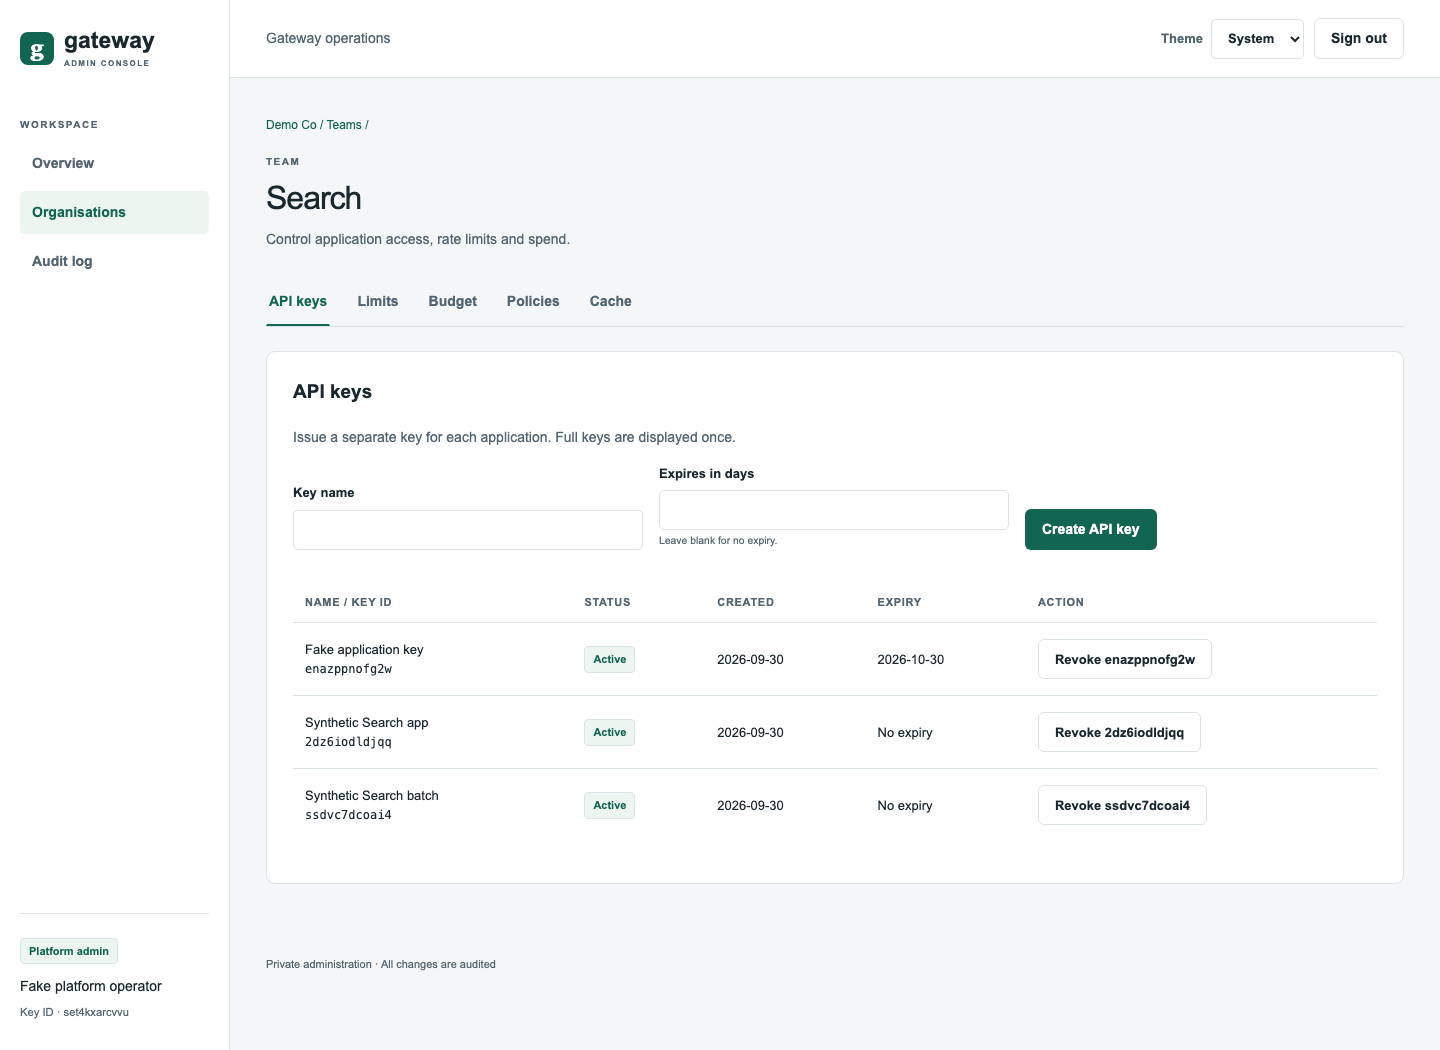
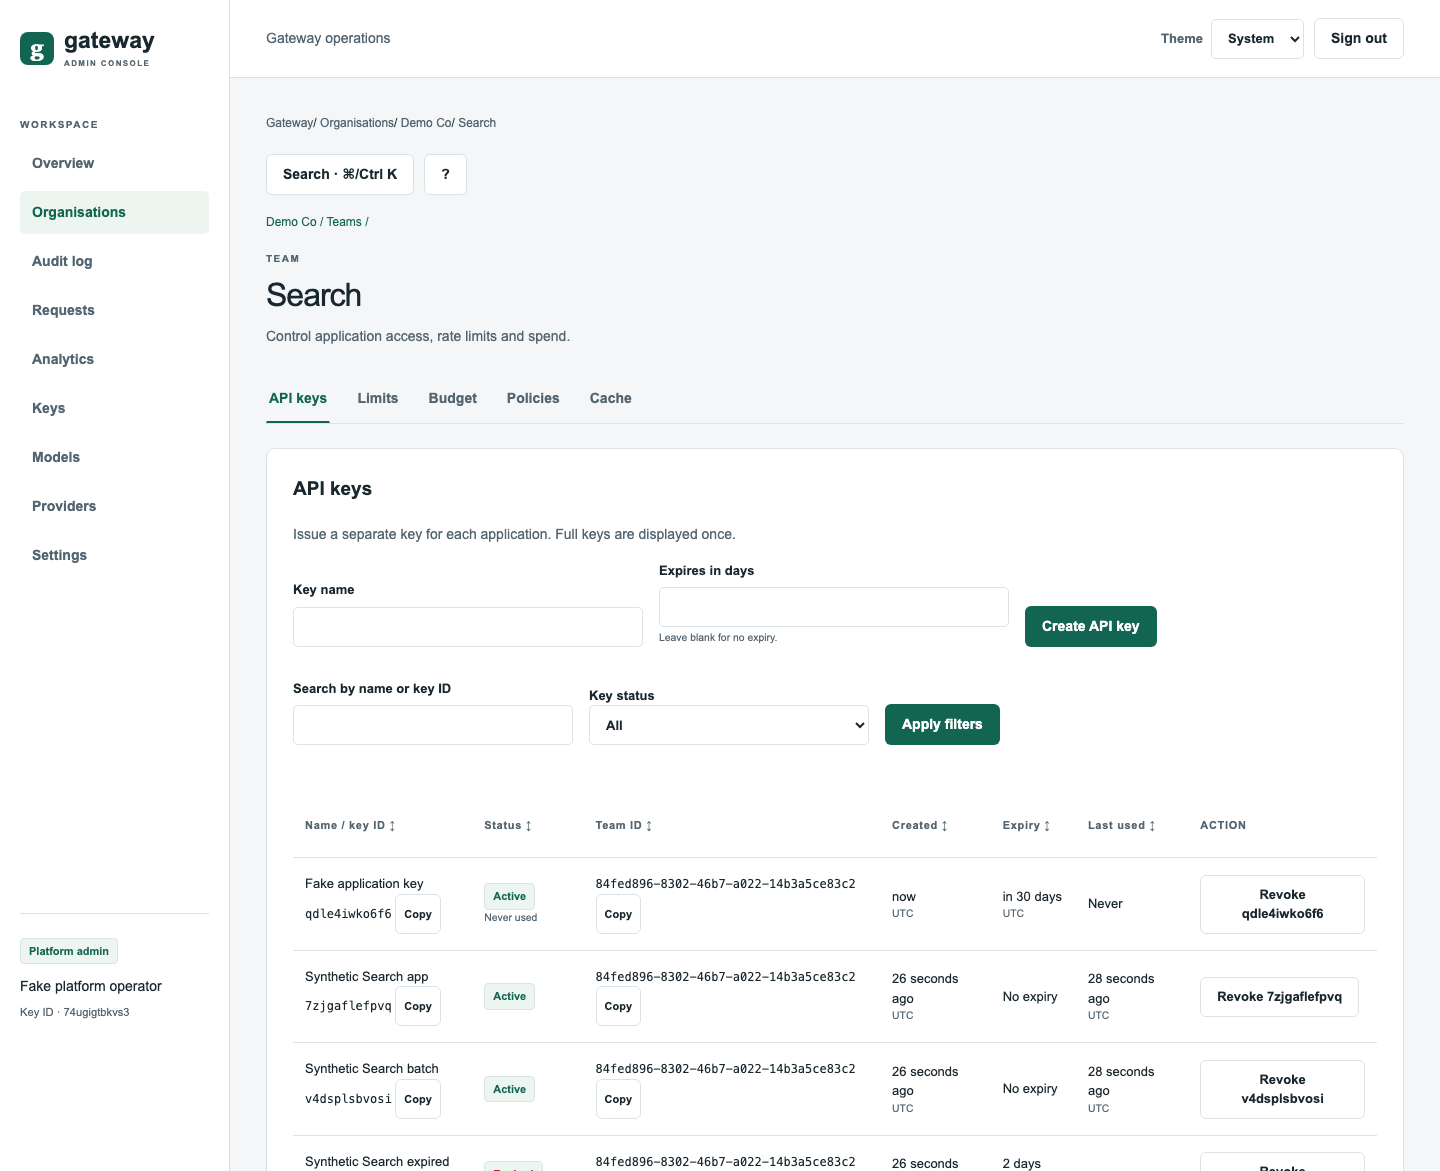
docs(console): refresh complete demo screenshot set

diff --git a/README.md b/README.md
@@ -239,11 +239,12 @@ npm run test:e2e
 CONSOLE_SCREENSHOTS=1 npm run test:e2e
 npm run test:break
 npm run test:break:policies
+npm run test:break:console
 # If a local console already uses 3100:
-CONSOLE_TEST_PORT=3110 npm run test:e2e
+CONSOLE_TEST_PORT=3300 npm run test:e2e
 ```
 
-Playwright uses a disposable `console_e2e_<uuid>` Postgres database and Redis DB 13.
+Playwright uses a disposable `console_e2e_<uuid>` Postgres database and Redis DB 15.
 It starts the real gateway/public/admin listeners (ports 18090/18091) and the production
 standalone console (3100, IPv6 loopback browser origin). It deliberately ignores `.env` and inherited gateway config,
 uses a fake pepper/provider key and a provider URL at closed port 1, and never invokes a
@@ -283,16 +284,62 @@ GATEWAY_API_KEY_PEPPER exported, run:
 GATEWAY_DEMO_SEED=1 uv run python scripts/seed_demo.py
 ```
 
-The command refuses without that flag. It creates Demo Co with Search, Support and
-Engineering, two keys per team, limits/budgets and about 30 days of synthetic usage across
-reviewed models, including unpriced and cache-hit receipts. This illustrative history uses
-today's reviewed prices, not historical invoices. It never calls providers,
-needs no provider key, and prints only org/team IDs and names. Generated key secrets are
-discarded; create a new application key in the console if you need to send a request.
-Rerunning reuses orgs/teams/key names and deterministic receipt IDs, preserving edits and
-existing receipts. It refuses an existing Demo Co that was not created by this seeder.
-It appends a new day's synthetic rows on later days rather than deleting history.
-The Playwright screenshot harness runs this same seeder in its disposable database.
+The command refuses without that flag or when the **actual bound database** host is not
+`localhost`, `127.0.0.1`, `::1` or compose's `postgres`. It creates Demo Co, Northwind
+Health and Orbit Labs, six key states per team, and 90 days of synthetic receipts across
+every catalogued model. Orbit has only three days of history. It makes no provider calls.
+History uses today's reviewed prices; it illustrates operations, not historical invoices.
+Northwind's EU-only policy is applied after its illustrative history: historical non-EU
+receipts do not claim to satisfy the current policy. The reviewed catalogue currently has
+no EU model, so its effective model list correctly permits none.
+
+Rerunning preserves policies and receipts, reuses deterministic receipt IDs, and rotates
+the demo platform and Northwind org-admin keys by revoking the previous pair. The new
+pair is written only to ignored `.demo-keys.env`, mode 0600; keys are never printed.
+Set `GATEWAY_DEMO_KEYS_FILE` to choose another ignored local location. Use those values
+locally for sign-in; never paste them into reports or screenshots. Application key secrets
+are discarded. Pre-existing non-demo names are refused. Audit events use the real service
+and verify as a chain; they are not backdated because the chain service has no timestamp
+injection contract. Later days append synthetic receipts rather than deleting history.
+
+| Screen / state | Seeded example |
+|---|---|
+| Overview: over budget | Demo Co / Search, budget set below seeded spend; danger text says requests are refused |
+| Overview: warning / under / unlimited | Support at alert threshold; Orbit / Prototypes well under; Engineering unlimited |
+| Organisations and near-empty state | Demo Co (general SaaS), Northwind Health (EU healthcare), Orbit Labs (three days) |
+| Organisation Overview / teams | Spend, budget use, key count and last activity for every team |
+| Team Limits | Search overrides, Support defaults, Engineering explicit unlimited limits |
+| Team Budget | Search exhausted, Support warning, Engineering unlimited, Orbit under budget |
+| Org / team API keys | App and batch active; expiring within 3 days; expired; revoked; never used |
+| Org / team Policies | Org provider wildcards, Search exact model plus wildcard, Paused sandbox allow nothing |
+| Guardrail actions / residency | Search/Support/Engineering exercise every action; Northwind strict EU; Engineering sg/global |
+| Org / team Cache | Persisted cache policy and successful purge audit events; synthetic cache-hit receipts and savings |
+| Requests / attempt drawer | Three-attempt Groq 502 → Groq retry 502 → DeepSeek 200; stream, error, incomplete, cache and redaction filters |
+| Analytics | 90 days across every provider/model; visible Groq slow day two days ago; missing TTFB/savings remain gaps |
+| Models / aliases | Installed reviewed catalogue, current prices/history/source dates, weights and authoritative effective team policies |
+| Providers | Synthetic recent error/latency aggregates; enabled/key-configured booleans; actual breaker state labelled this replica |
+| Audit / event drawer | Every real service action, including admin creation/revoke, key revoke, policies and purge; verified chain |
+| Settings: Account / Preferences / Platform | Demo platform and Northwind org sign-in; persisted browser preferences; platform-only allowlist |
+| Search / command palette | All three orgs for platform; Northwind's Clinical/Research and keys only for its org admin |
+| Exports / filters / sort / copy | Request and audit receipts, exact decimal values, safe CSV cells; URL state and public IDs |
+
+Every screen and org/team tab is visited in the named platform and org demo-tour tests.
+Run the suites after the Python database and Redis gates:
+
+```bash
+CONSOLE_TEST_PORT=3300 CONSOLE_SCREENSHOTS=1 npm run test:e2e
+```
+
+The full set is under `docs/images/console/{platform,org}/{light,dark,tablet,phone}/`.
+Each profile includes every role-visible page and organisation/team tab; the platform
+set also includes Orbit and the paused sandbox. Captures start at the top, blur focus,
+and use the test-only static-sidebar class for long pages. No secret dialogs are captured.
+
+![Requests](docs/images/console/platform/light/requests.png)
+![Analytics](docs/images/console/platform/light/analytics.png)
+![Settings](docs/images/console/platform/light/settings.png)
+![Models dark](docs/images/console/platform/dark/models.png)
+![Requests phone](docs/images/console/org/phone/requests.png)
 
 Screenshots contain synthetic deployments and public IDs only:
 
